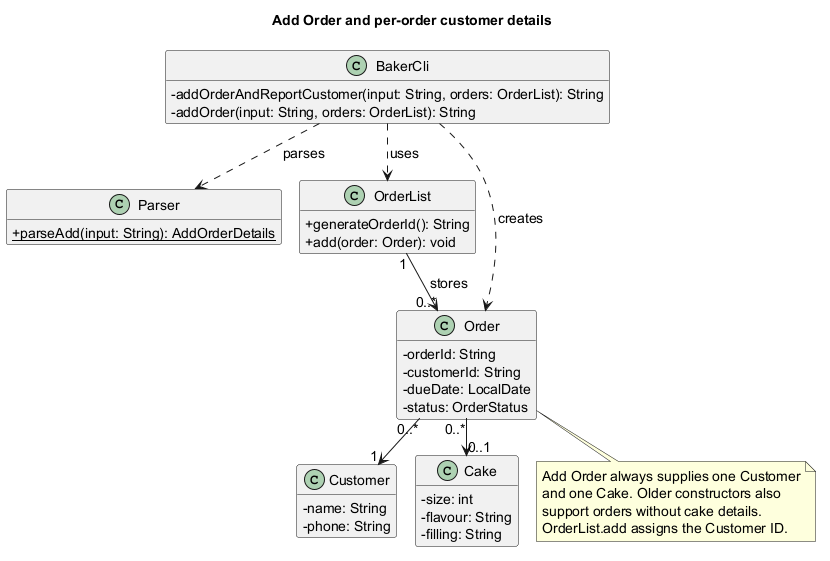
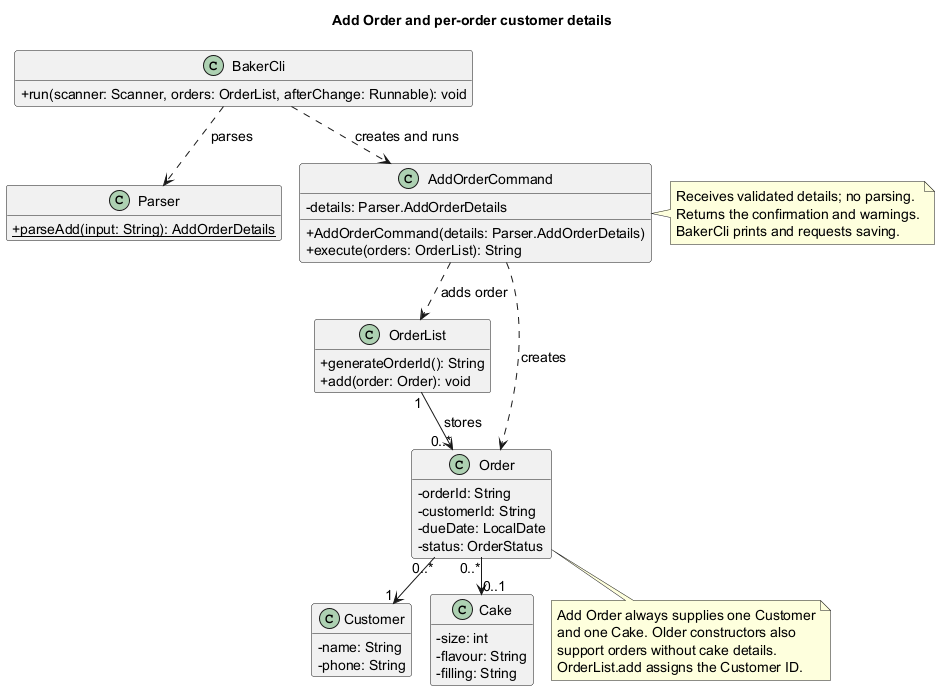
Extract AddOrderCommand
Parse add input once and move order creation out of the CLI. Preserve customer and capacity behaviour, with command tests and updated diagrams.

Changed region(s): [[0.0, 0.0, 0.994, 1.0]]

diff --git a/src/test/java/seedu/duke/command/AddOrderCommandTest.java b/src/test/java/seedu/duke/command/AddOrderCommandTest.java
@@ -1,0 +1,84 @@
+package seedu.duke.command;
+
+//@@author Eethanzyj
+
+import static org.junit.jupiter.api.Assertions.assertEquals;
+import static org.junit.jupiter.api.Assertions.assertTrue;
+
+import java.time.LocalDate;
+import java.time.format.DateTimeFormatter;
+
+import org.junit.jupiter.api.Test;
+
+import seedu.duke.model.Cake;
+import seedu.duke.model.Customer;
+import seedu.duke.model.Order;
+import seedu.duke.model.OrderList;
+import seedu.duke.model.OrderStatus;
+import seedu.duke.parser.Parser;
+
+/**
+ * Checks order creation, customer identity and confirmation formatting without running the CLI.
+ */
+public class AddOrderCommandTest {
+    private static final LocalDate DUE_DATE = LocalDate.now().plusDays(30);
+    private static final String INPUT = "add n/Alice Tan p/91234567 d/"
+            + DUE_DATE.format(DateTimeFormatter.ofPattern("dd-MM-uuuu"))
+            + " s/8 f/Chocolate fi/Strawberry";
+
+    @Test
+    public void execute_newCustomer_storesCompleteOrderAndReturnsConfirmation() {
+        OrderList orders = new OrderList();
+        orders.setDailyCapacity(1);
+
+        String result = new AddOrderCommand(Parser.parseAdd(INPUT)).execute(orders);
+
+        assertEquals(1, orders.size());
+        Order added = orders.getById("O001");
+        assertEquals("Alice Tan", added.getCustomer().getName());
+        assertEquals("91234567", added.getCustomer().getPhone());
+        assertEquals(DUE_DATE, added.getDueDate());
+        assertEquals(8, added.getCake().getSize());
+        assertEquals("Chocolate", added.getCake().getFlavour());
+        assertEquals("Strawberry", added.getCake().getFilling());
+        assertEquals(OrderStatus.QUEUED, added.getStatus());
+        assertEquals("C001", added.getCustomerId());
+        assertEquals("Added order " + added + System.lineSeparator()
+                + "Customer ID: C001 (new customer)", result);
+    }
+
+    @Test
+    public void execute_returningCustomer_reusesIdFromCancelledOrder() {
+        OrderList orders = new OrderList();
+        Order earlier = new Order("O007", new Customer("Alice", "91234567"),
+                new Cake(6, "Vanilla", "Cream"), DUE_DATE, OrderStatus.CANCELLED);
+        orders.add(earlier);
+
+        String result = new AddOrderCommand(Parser.parseAdd(INPUT)).execute(orders);
+
+        assertEquals(2, orders.size());
+        Order added = orders.getById("O008");
+        assertEquals(earlier.getCustomerId(), added.getCustomerId());
+        assertEquals("Alice", earlier.getCustomer().getName());
+        assertEquals(OrderStatus.CANCELLED, earlier.getStatus());
+        assertTrue(result.endsWith("Customer ID: C001 (returning customer)"));
+    }
+
+    @Test
+    public void execute_overCapacity_addsOrderAndPlacesWarningBeforeCustomerConfirmation() {
+        OrderList orders = new OrderList();
+        orders.setDailyCapacity(1);
+        orders.add(new Order("O001", new Customer("Bob", "81234567"),
+                new Cake(6, "Vanilla", "Cream"), DUE_DATE));
+
+        String result = new AddOrderCommand(Parser.parseAdd(INPUT)).execute(orders);
+
+        assertEquals(2, orders.size());
+        String[] lines = result.split(System.lineSeparator());
+        assertEquals(3, lines.length);
+        assertTrue(lines[0].startsWith("Added order O002:"));
+        assertTrue(lines[1].startsWith("Warning:"));
+        assertTrue(lines[1].endsWith("now has 2 orders, over your daily capacity of 1."));
+        assertEquals("Customer ID: C002 (new customer)", lines[2]);
+    }
+}

diff --git a/src/main/java/seedu/duke/BakerCli.java b/src/main/java/seedu/duke/BakerCli.java
@@ -5,9 +5,8 @@ package seedu.duke;
 import java.time.LocalDate;
 import java.util.Locale;
 import java.util.Scanner;
-import java.util.logging.Level;
-import java.util.logging.Logger;
 
+import seedu.duke.command.AddOrderCommand;
 import seedu.duke.command.CancelCommand;
 import seedu.duke.command.CapacityCommand;
 import seedu.duke.command.CustomerCommand;
@@ -19,11 +18,6 @@ import seedu.duke.command.MarkCommand;
 import seedu.duke.command.UpdateOrderCommand;
 import seedu.duke.command.ViewOrderCommand;
 import seedu.duke.exception.CakeQueueException;
-import seedu.duke.model.Cake;
-import seedu.duke.model.Customer;
-import seedu.duke.model.CustomerList;
-import seedu.duke.model.CustomerProfile;
-import seedu.duke.model.Order;
 import seedu.duke.model.OrderList;
 import seedu.duke.parser.Parser;
 
@@ -31,10 +25,6 @@ import seedu.duke.parser.Parser;
  * Runs the baker-facing CakeQueue commands.
  */
 public class BakerCli {
-    //@@author Eethanzyj
-    private static final Logger LOGGER = Logger.getLogger(BakerCli.class.getName());
-    //@@author HammerHead-os
-
     /**
      * Handles baker commands until the user exits.
      * {@code afterChange} is run after every successful change so the caller
@@ -94,8 +84,7 @@ public class BakerCli {
                     break;
                 //@@author Eethanzyj
                 case "add":
-                    //@@author anannya-mk
-                    System.out.println(addOrderAndReportCustomer(input, orders));
+                    System.out.println(new AddOrderCommand(Parser.parseAdd(input)).execute(orders));
                     //@@author HammerHead-os
                     afterChange.run();
                     break;
@@ -131,32 +120,7 @@ public class BakerCli {
         }
     }
 
-    //@@author anannya-mk
-    /**
-     * Adds an order, then tells the baker which customer it belongs to and whether they are new.
-     */
-    private String addOrderAndReportCustomer(String input, OrderList orders) {
-        String phone = Parser.parseAdd(input).getPhone();
-        boolean isNewCustomer = CustomerList.fromOrders(orders).findByPhone(phone).isEmpty();
-        String added = addOrder(input, orders);
-        CustomerProfile customer = CustomerList.fromOrders(orders).findByPhone(phone).orElseThrow();
-        return added + System.lineSeparator() + "Customer ID: " + customer.getCustomerId()
-                + (isNewCustomer ? " (new customer)" : " (returning customer)");
-    }
-
-    //@@author Eethanzyj
-    private String addOrder(String input, OrderList orders) {
-        Parser.AddOrderDetails details = Parser.parseAdd(input);
-        Order order = new Order(orders.generateOrderId(),
-                new Customer(details.getCustomerName(), details.getPhone()),
-                new Cake(details.getSize(), details.getFlavour(), details.getFilling()),
-                details.getDueDate());
-        orders.add(order);
-        LOGGER.log(Level.INFO, "Added order {0}.", order.getOrderId());
-        //@@author Kaishhhh
-        return "Added order " + order + capacityWarning(orders, order.getDueDate());
-    }
-
+    //@@author Kaishhhh
     /**
      * Returns a line break and a warning if the date is over capacity, or an empty string.
      */

diff --git a/src/main/java/seedu/duke/command/AddOrderCommand.java b/src/main/java/seedu/duke/command/AddOrderCommand.java
@@ -1,0 +1,65 @@
+package seedu.duke.command;
+
+//@@author Eethanzyj
+
+import java.util.logging.Level;
+import java.util.logging.Logger;
+
+import seedu.duke.model.Cake;
+import seedu.duke.model.Customer;
+import seedu.duke.model.CustomerList;
+import seedu.duke.model.CustomerProfile;
+import seedu.duke.model.Order;
+import seedu.duke.model.OrderList;
+import seedu.duke.parser.Parser;
+
+/**
+ * Adds a validated cake order and returns its order and customer confirmation.
+ * The caller handles console output and saving after execution.
+ */
+public class AddOrderCommand {
+    private static final Logger LOGGER = Logger.getLogger(AddOrderCommand.class.getName());
+
+    /** The immutable values already validated by the parser. */
+    private final Parser.AddOrderDetails details;
+
+    /**
+     * Creates a command from parsed Add Order details without parsing the input again.
+     *
+     * @param details The non-null details returned by {@link Parser#parseAdd(String)}.
+     */
+    public AddOrderCommand(Parser.AddOrderDetails details) {
+        assert details != null : "Add Order details must not be null";
+        this.details = details;
+    }
+
+    /**
+     * Creates and stores an order, then returns its confirmation, optional capacity warning
+     * and customer ID. Orders over capacity are still added.
+     *
+     * @param orders The non-null list receiving the order.
+     * @return The complete message for the caller to display.
+     */
+    public String execute(OrderList orders) {
+        assert orders != null : "Order list must not be null";
+        //@@author anannya-mk
+        String phone = details.getPhone();
+        boolean isNewCustomer = CustomerList.fromOrders(orders).findByPhone(phone).isEmpty();
+        //@@author Eethanzyj
+        Order order = new Order(orders.generateOrderId(),
+                new Customer(details.getCustomerName(), details.getPhone()),
+                new Cake(details.getSize(), details.getFlavour(), details.getFilling()),
+                details.getDueDate());
+        orders.add(order);
+        LOGGER.log(Level.INFO, "Added order {0}.", order.getOrderId());
+        //@@author Kaishhhh
+        String warning = CapacityCommand.warningFor(orders, order.getDueDate());
+        String added = "Added order " + order
+                + (warning.isEmpty() ? "" : System.lineSeparator() + warning);
+        //@@author anannya-mk
+        CustomerProfile customer = CustomerList.fromOrders(orders).findByPhone(phone).orElseThrow();
+        return added + System.lineSeparator() + "Customer ID: " + customer.getCustomerId()
+                + (isNewCustomer ? " (new customer)" : " (returning customer)");
+        //@@author Eethanzyj
+    }
+}

diff --git a/docs/DeveloperGuide.md b/docs/DeveloperGuide.md
@@ -33,6 +33,9 @@ source version when publishing these guides.
 
 * This project started from the CS2113 team project template, which is why the code keeps the
   `seedu.duke` package name.
+* Eethanzyj used OpenAI Codex to assist with the Add Order implementation and refactoring,
+  automated tests, and associated documentation and diagrams. Moved customer and capacity
+  logic retains its original author tags.
 * The structure and style of this guide follow the
   [AddressBook-Level3 Developer Guide](https://se-education.org/addressbook-level3/DeveloperGuide.html).
 * Diagrams are drawn with [PlantUML](https://plantuml.com). The `.puml` source of each diagram is in
@@ -61,7 +64,7 @@ CakeQueue is split into a few small parts that each do one job:
 | `Duke` | Starts the app. It loads the saved records and runs the `BakerCli` command loop, giving it a *save* callback that is called after every change. |
 | `BakerCli` | The command loop. It reads a line, picks the command by its first word, runs it, and prints the result or `Error: ...`. |
 | `Parser` | Checks the text of a command and turns it into values such as an ID or a set of fields. |
-| `command` package | Classes such as `FindCommand` and `CapacityCommand` carry out a command and return the text to print. Add Order uses helpers in `BakerCli`. |
+| `command` package | Classes such as `AddOrderCommand`, `FindCommand` and `CapacityCommand` carry out an operation and return the text to print. |
 | `model` package | The data: `OrderList`, `Order`, `Customer`, `Cake`, `OrderStatus`, and the read-only `CustomerList` and `CustomerProfile`. |
 | `Storage` | Saves and loads the order list as a text file. |
 | `CakeQueueException` | The one exception type for errors the user can fix. |
@@ -75,8 +78,8 @@ readable for data compatibility; their creation and management commands are remo
 
 1. The command loop reads the line and looks at the first word to choose the command.
 2. `Parser` checks the rest of the line. If the input is wrong, it throws a `CakeQueueException`.
-3. Most commands create a command object and call `execute(orders)`. Add Order uses
-   `BakerCli.addOrderAndReportCustomer` and `addOrder` helpers to create model objects directly.
+3. For operations on orders, the loop creates a command object and calls `execute(orders)`.
+   Add Order passes the validated `Parser.AddOrderDetails` to `AddOrderCommand`.
 4. The command reads or changes the `OrderList` and returns a message.
 5. The loop prints the message. If the command changed anything, it then runs the save callback.
 
@@ -96,8 +99,7 @@ the former `update` command word is rejected.
 ### Commands
 
 Most commands are built with parsed values and expose `execute(OrderList)`, returning the text
-to print. `HelpCommand.execute()` needs no order list. Add Order uses helpers in `BakerCli`,
-and `bye` ends its loop directly. Command classes do not print or save; the loop prints their
+to print. `HelpCommand.execute()` needs no order list, and `bye` ends the loop directly. Command classes do not print or save; the loop prints their
 result and invokes the save callback after successful record changes.
 
 ### Model
@@ -158,7 +160,8 @@ the customer/history section below explains customer grouping in more detail.
 
 | Component | Responsibility in this flow |
 | --- | --- |
-| `BakerCli` | Receives `add`, creates the objects, adds the order, and prints the result. |
+| `BakerCli` | Parses `add` once, runs `AddOrderCommand`, prints its result and requests saving. |
+| `AddOrderCommand` | Creates and adds the order, logs its ID, and returns the order/customer confirmation and optional warning. |
 | `Parser` | Checks the command and returns an `AddOrderDetails` value object. |
 | `Customer` | Holds the name and phone recorded for this order. |
 | `Cake` | Holds the size, flavour, and filling. |
@@ -176,13 +179,11 @@ allows the customer/history commands to group them without merging the orders.
 #### Validation before changing data
 
 The syntax is `add n/NAME p/PHONE d/DATE s/SIZE f/FLAVOUR fi/FILLING`.
-`BakerCli.addOrderAndReportCustomer` validates the input before looking up the
-customer. It then calls `addOrder`, which validates the input again before creating
-the order. Both calls use `Parser.parseAdd`, which delegates to the shared
-six-field parsing helper. The parser identifies prefixes and
-collects their values, then checks
-the required fields and converts the date and size. No order ID is requested
-until parsing has finished successfully.
+`BakerCli` calls `Parser.parseAdd` once and passes the returned immutable
+`AddOrderDetails` to `AddOrderCommand`. The command receives values rather than raw input;
+it does not parse again. Parsing and validation therefore finish before customer lookup,
+ID generation or model changes. The parser identifies prefixes, collects their values,
+checks required fields and converts the date and size.
 
 * All six fields must be present and non-blank. Their order may vary.
 * Prefixes must be lowercase. Unknown or repeated prefixes are rejected.
@@ -206,20 +207,27 @@ The parser returns structured details rather than creating an order itself, so
 validation can be tested without generating IDs or writing files. The same phone
 validation applies to `add` and `edit`: at least eight digits, with spaces, `+` and `-` allowed.
 
+**Why a separate command?** The CLI handles interaction, while `AddOrderCommand` owns
+order creation and confirmation. This matches the existing command classes and allows
+direct tests without console streams or files. The command reuses customer grouping and
+capacity logic; those shared responsibilities remain in their existing classes. Its input
+uses the existing `Parser.AddOrderDetails`, so no second parser or duplicate request class
+is needed. The CLI retains the save callback, keeping the command independent of storage.
+
 #### Creating and saving an order
 
 ![Add Order interaction sequence](images/add-order-sequence.png)
 
-After successful parsing, `BakerCli.addOrder` requests an Order ID from `OrderList`,
+After successful parsing, `AddOrderCommand.execute` requests an Order ID from `OrderList`,
 constructs the customer and cake, and creates an `Order` with status `QUEUED`.
 `OrderList.add` assigns or reuses a Customer ID by phone number before adding the
 record. The existing `Cake` constructor also checks size, flavour, and filling.
-The CLI logs the Order ID rather than the customer's name or phone.
+The command logs the Order ID rather than the customer's name or phone.
 
-The add helper appends a capacity warning when active orders on the due date
+The command appends a capacity warning when active orders on the due date
 exceed the configured limit. It still adds the order. The default limit is 5,
 can be changed to 1–50 using `capacity`, and resets on restart. Enquiries and
-closed records do not count. The wrapper then appends the Customer ID and whether
+closed records do not count. The command then appends the Customer ID and whether
 the customer is new or returning; it does not generate another order.
 
 The ID counter produces values such as `O001` and `O002`. When `Storage.load`
@@ -243,6 +251,7 @@ confirmation before saving, and a separate warning on failure.
 
 | Test class | Behaviour checked |
 | --- | --- |
+| `AddOrderCommandTest` | Complete order creation, returning customers with cancelled orders, restored ID counters, and warning placement. |
 | `AddOrderValidationTest` | Guidance for each missing field, blank names, punctuation, Unicode, and formatted phones. |
 | `AddOrderReliabilityTest` | Rejected commands preserve saved data and IDs; names survive restarting; customer IDs and capacity warnings, and independent name edits work together. |
 | `ParserTest` and `ParserErrorTest` | Existing command syntax, date/size validation, unknown prefixes, and duplicate fields. |
@@ -361,14 +370,15 @@ still saved.
 
 *Warning after a change.*
 
-1. `add` and `edit` run exactly as before. After the order list has changed, `BakerCli` calls
-   `CapacityCommand.warningFor(orders, dueDate)` with the due date of the order that was added
-   or edited. For `edit`, it reads the due date back from the order list, because the command may not have
-   changed it.
+1. After adding an order, `AddOrderCommand` calls
+   `CapacityCommand.warningFor(orders, dueDate)` and includes any warning in its result.
+   After `edit`, `BakerCli` calls the same method with the updated order's due date, because
+   the edit may not have supplied a new date.
 2. `warningFor` returns an empty string if the order has no due date, or if
    `orders.countOrdersDueOn(dueDate)` is not more than `orders.getDailyCapacity()`. Otherwise, it returns
    the warning text with the date and the count.
-3. `BakerCli` appends the warning on a new line after the normal message.
+3. For `add`, the command places the warning between the order and customer lines.
+   For `edit`, the loop appends the warning to the update message.
 
 ![Capacity activity diagram](diagrams/CapacityActivity.png)
 
@@ -438,7 +448,8 @@ regardless of due date or status. Grouping follows insertion order, not due-date
 | `CustomerCommand` | Produces the output of `customer CUSTOMER_ID`. |
 | `HistoryCommand` | Produces the output of `history CUSTOMER_ID`. |
 | `Parser` | `parseCustomer` and `parseHistory` check the input format and return the upper-cased ID. |
-| `BakerCli` | Routes `customer` and `history`, and adds the customer line to the output of `add`. |
+| `BakerCli` | Routes the customer/history commands and prints command results. |
+| `AddOrderCommand` | Reports the Customer ID and new/returning label after creating an order. |
 
 #### Sequence of `customer C001`
 
